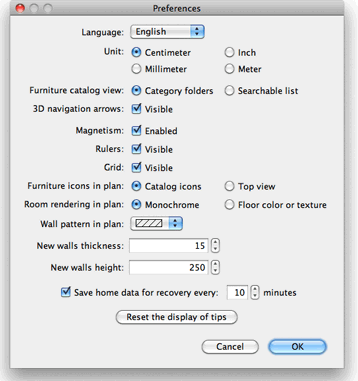
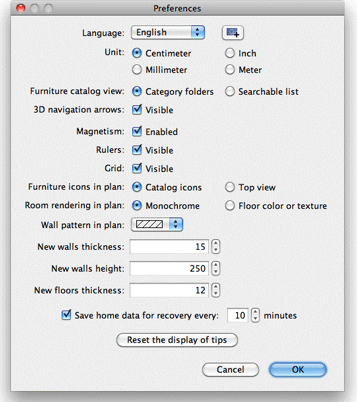
Added help for levels
git-svn-id: https://svn.code.sf.net/p/sweethome3d/code/trunk@3236 03e323e1-6c6c-46a5-9f71-c4ce5d8c6204

Changed region(s): [[0.0308, 0.0, 0.986, 0.9816], [0.6162, 0.4331, 0.9244, 0.5486], [0.0308, 0.0, 0.1541, 0.0577]]

diff --git a/SweetHome3D/src/com/eteks/sweethome3d/viewcontroller/resources/help/en/addingLevels.html b/SweetHome3D/src/com/eteks/sweethome3d/viewcontroller/resources/help/en/addingLevels.html
@@ -1,0 +1,94 @@
+<html>
+<head>
+	<meta http-equiv="content-type" content="text/html;charset=iso-8859-1">
+	<title>Adding levels</title>
+	<link href="../help.css" rel="stylesheet" media="all">
+</head>
+
+<body  bgcolor="#ffffff">
+<div id="banner">
+	<div id="helpheader">
+		<a class="bread" href="index.html">Sweet Home 3D Help</a> > <a class="bread" href="tocCreating.html">Creating
+						      homes, walls and furniture</a>
+	</div>
+</div>
+<div id="mainbox" align="left">
+<table width="100%" border="0" cellspacing="0" cellpadding="0">
+	<tr valign="bottom" height="32">
+	<td width="3" height="32">&nbsp;</td>
+	<td width="32" height="32"><img src="../images/applicationIcon32.png" alt="Sweet Home 3D Icon" height="32" width="32"></td>
+	<td width="8" height="32">&nbsp;&nbsp;</td>
+	<td valign="bottom" height="32"><font id="topic">Adding levels</font></td>
+	</tr>
+	<tr height="10">
+	<td colspan="4" height="10">&nbsp;</td>
+	</tr>
+</table>
+<table width="100%" border="0" cellspacing="0" cellpadding="3">
+	<tr>
+	<td><p>Every home is created with a default level, but Sweet Home 3D is also able to manage multiple levels, with the ability for each level to be at a positive or negative elevation. To add a new level, choose <i>Plan &gt; Add new level</i> from the menu. As soon as a home has more then one level, some tabs appear at the top of the plan view and let you select the level into which you want to add some items. At the end of the tabs list, appears also a tab with a <font size="+1"><b>+</b></font> sign that you can use to create more levels if needed.
+</p>
+	  <table border="0" align="center" cellpadding="0" cellspacing="5">
+	    <tr align="center">
+    <td><img src="../images/addingLevel.png" alt="Adding furniture" width="416" height="234"></td>
+    </tr>
+  <tr>
+    <td align="center" valign="top">New level showing in light color walls and ceilings of the lower level </td>
+    </tr>
+</table>
+      <p>To help you find your place in an upper level, walls and ceilings of the lower level are displayed with a light color in the plan view. If the edited level is the lowest level, walls and floors of the next level will be drawn in a light color. When magnetism is active, the cursor is magnetized on these  walls and rooms to let you use more easily wall or room drawing tools. If needed you may also simply copy some walls, rooms or furniture from an other level to paste them in the new level.</p>
+      <p>Each level has an elevation and other attributes that can be <a href="editingLevels.html">changed</a>, and if the walls or some furniture added to a lower level are higher than the elevation of the selected level they will appear in full color, as the surrounding walls and the staircase and the window on the right in the next figure.</p>
+      <table border="0" align="center" cellpadding="0" cellspacing="5">
+        <tr align="center">
+      <td><img src="../images/level1WithHighWalls.png" alt="Adding furniture" width="416" height="234"></td>
+    </tr>
+    <tr>
+      <td align="center" valign="top">New level showing in full color the high walls and furniture of the lower level</td>
+    </tr>
+</table>
+      <p>Adding a new level has no direct effect in the 3D view, and no floor is automatically added to separate a level from an other. It's only once you start to draw new walls, new rooms or add some furniture that you will see them appear at the elevation of the new level.</p></td>
+	</tr>
+</table>
+<div id="taskbox">
+  <table width="100%" border="0" cellspacing="0" cellpadding="7" BGCOLOR="#eeeeee">
+    <tr valign="top" BGCOLOR="#eeeeee">
+      <td bgcolor="#eeeeee" width="98%">
+        <table border="0" cellspacing="0" cellpadding="4">
+          <tr valign="top">
+            <td width="16"><p>&#149;</p></td>
+            <td><p>The  height  and the floor thickness 
+              of a new level can be set in the <a href="editingPreferences.html">preferences</a> panel. The elevation of a new level is computed by adding  the elevation of last level, its height and the  floor thickness set in preferences.</p></td>
+          </tr>
+          <tr valign="top">
+            <td><p>&#149;</p></td>
+            <td> Once a level is created you may <a href="editingLevels.html">change</a> its name, its elevation and heights by double-clicking on its tab, or by choosing <i>Plan &gt; Modify level</i> from the menu.</td>
+          </tr>
+          <tr valign="top">
+            <td><p>&#149;</p></td>
+            <td> The tabs at the top of the plan view list levels in the order of their elevation, then in the reverse order of their height.</td>
+          </tr>
+          <tr valign="top">
+            <td><p>&#149;</p></td>
+            <td> Selecting a piece of furniture in the furniture list will select automatically the level it was added to, if this piece can't be viewed in the current level.</td>
+          </tr>
+          <tr valign="top">
+            <td><p>&#149;</p></td>
+            <td><p>Each level in a home can have its own <a href="importingBackground.html">background image</a> to draw walls and rooms upon it.</td>
+          </tr>
+          <tr valign="top">
+            <td>
+              <p>&#149;</p>
+              </td>
+            <td>
+              <p>The walls and rooms of the lower level  drawn with a light color are not printed or copied in the clipboard. They are here to help you find your place and  draw faster the current level.</p>
+              </td>
+          </tr>
+        </table>
+       </td>
+    </tr>
+  </table>
+</div>
+</div>
+</body>
+
+</html>

diff --git a/SweetHome3D/src/com/eteks/sweethome3d/viewcontroller/resources/help/en/editingLevels.html b/SweetHome3D/src/com/eteks/sweethome3d/viewcontroller/resources/help/en/editingLevels.html
@@ -1,0 +1,60 @@
+<html>
+<head>
+	<meta http-equiv="content-type" content="text/html;charset=iso-8859-1">
+	<title>Editing levels</title>
+	<link href="../help.css" rel="stylesheet" media="all">
+</head>
+
+<body  bgcolor="#ffffff">
+<div id="banner">
+	<div id="helpheader">
+		<a class="bread" href="index.html">Sweet Home 3D Help</a> > <a class="bread" href="tocEditing.html">Editing
+					      preferences, plan and 3D view</a>
+	</div>
+</div>
+<div id="mainbox" align="left">
+<table width="100%" border="0" cellspacing="0" cellpadding="0">
+	<tr valign="bottom" height="32">
+	<td width="3" height="32">&nbsp;</td>
+	<td width="32" height="32"><img src="../images/applicationIcon32.png" alt="Sweet Home 3D Icon" height="32" width="32"></td>
+	<td width="8" height="32">&nbsp;&nbsp;</td>
+	<td valign="bottom" height="32"><font id="topic">Editing levels</font></td>
+	</tr>
+	<tr height="10">
+	<td colspan="4" height="10">&nbsp;</td>
+	</tr>
+</table>
+<table width="100%" border="0" cellspacing="0" cellpadding="3">
+  <tr>
+    <td><p>You may edit the name, the elevation and the heights of a level by double-clicking on its tab, or by choosing <i>Plan &gt; Modify level</i> from the menu.<br>
+      The modification pane of a level lets you edit its attributes but also shows a table 
+      describing all the levels of a home where the selected line matches the currently edited level.</p>
+<p align="center"><img src="images/editingLevels.png" alt="Modify furniture" width="294" height="321"></p>
+	    <p>The thickness of the floor is used to compute the vertical border around a floor in the 3D view. This surface will be visible only around holes and at the border of a mezzanine.<br>
+	      The elevation 
+	    of a level can be positive or negative. In the later case, the ground will be automatically dug in the 3D view each time a piece of furniture, a room or a closed set of walls is added to the underground level. This can be used to place a swimming pool in the ground or to create a basement with one or more levels.</p></td>
+	</tr>
+</table>
+<div id="taskbox">
+  <table width="100%" border="0" cellspacing="0" cellpadding="7" BGCOLOR="#eeeeee">
+    <tr valign="top" BGCOLOR="#eeeeee">
+      <td bgcolor="#eeeeee" width="98%">
+        <table border="0" cellspacing="0" cellpadding="4">
+          <tr valign="top">
+            <td><p>&#149;</p></td>
+            <td> It's not mandatory to enter values that will have the effect of superimposing exactly levels on top of each other. 
+              You may use the level feature to manage intermediate levels, raised floors and false ceilings. You can also use levels at the same elevation as layers to isolate some items like <a href="drawingDimensions.html">dimension lines</a> or <a href="addingTexts.html">texts</a>.</td>
+          </tr>
+            <tr valign="top"> 
+              <td width="16"> <p>&#149;</p></td>
+              <td> <p>The tabs at the top of the plan view display the name of the levels in the order of their elevation, then in the reverse order of their height. Changing the elevation and/or the height of a level will automatically update the order of the tabs.</td>
+            </tr>
+          </table>
+      </td>
+    </tr>
+  </table>
+</div>
+</div>
+</body>
+
+</html>

diff --git a/SweetHome3D/src/com/eteks/sweethome3d/viewcontroller/resources/help/en/editing3DView.html b/SweetHome3D/src/com/eteks/sweethome3d/viewcontroller/resources/help/en/editing3DView.html
@@ -128,7 +128,7 @@
         <p align="center"><img src="images/editing3DView.png" width="347" height="214"></p>
         <p>In the 3D view pane, you may change&nbsp;the virtual visitor field of view, its height, the color or the texture
           of the ground and
-          the sky, the light brightness and walls transparency.<br>
+          the sky, the light brightness and walls (and floors) transparency.<br>
         The elevation of the virtual visitor point of view is equal to 13/14 of its height to respect adult human proportions.</p>
       </td>
   </tr>
@@ -137,7 +137,7 @@
 <table width="100%" border="0" cellspacing="0" cellpadding="7" BGCOLOR="#eeeeee">
 	<tr valign="top" BGCOLOR="#eeeeee">
 	<td bgcolor="#eeeeee" width="98%">
-	<table border="0" cellspacing="0" cellpadding="4"><tr valign="top"><td width="16"><p>&#149;</p></td><td><p>Press the <i>shift</i>	        key to slow down the effect of mouse moves and mouse wheel in the 3D view.</p></td></tr>
+	<table border="0" cellspacing="0" cellpadding="4"><tr valign="top"><td width="16"><p>&#149;</p></td><td><p>Press the <i>shift</i>	        key to increase the effect of mouse moves and mouse wheel in the 3D view.</p></td></tr>
 	  <tr valign="top">
         <td><p>&#149;</p>
         </td>
@@ -148,7 +148,7 @@
 	    <td width="16"><p>&#149;</p>
 	      </td>
 	    <td><p>The moves in the 3D view aren't considered as undoable
-	        operations, but the current position in 3D view is <a href="savingHome.html">saved</a> in a Sweet Home 3D file
+	        operations, but the current position in the 3D view is <a href="savingHome.html">saved</a> in a Sweet Home 3D file
 	        when you choose <i>File &gt; Save</i> or <i>File &gt; Save
 	        as...</i>.</p>
 	      </td>
@@ -169,12 +169,15 @@
         </td>
 	    </tr>
 	  <tr valign="top">
+	    <td><p>&#149;</p></td>
+	    <td><p>Nothing prevents the virtual visitor from being inside a wall or very far from home. If you don't know where
+	      the virtual visitor is located, roll the mouse wheel with the mouse pointer in 3D view, it will automatically
+	      select and show the virtual visitor in the home plan.</p></td>
+	    </tr>
+	  <tr valign="top">
 	    <td><p>&#149;</p>
 	      </td>
-	    <td><p>Nothing prevents the virtual visitor from being inside a wall or very far from home. If you don't know where
-	        the virtual visitor is located, roll the mouse wheel with the mouse pointer in 3D view, it will automatically
-	        select and show the virtual visitor in the home plan.</p>
-	      </td>
+	    <td><p>If you want to always see all the levels in the 3D view whatever the selected level is, choose <i>3D view &gt; Display all levels</i> menu item. To display the selected level and all the other lower levels, choose <i>3D view &gt; Display selected level</i> menu item.</p></td>
 	    </tr>
 	</table>
 	

diff --git a/SweetHome3D/src/com/eteks/sweethome3d/viewcontroller/resources/help/en/editingPreferences.html b/SweetHome3D/src/com/eteks/sweethome3d/viewcontroller/resources/help/en/editingPreferences.html
@@ -28,15 +28,16 @@
 	<tr>
 	<td><p>To edit Sweet Home 3D preferences, choose <i>Sweet Home 3D &gt; Preferences...</i> under Mac OS X or <i>File &gt; Preferences...</i> under
 	    other systems.</p>
-	    <p align="center"><img src="images/editingPreferences.png" width="358" height="381"></p>
+	    <p align="center"><img src="images/editingPreferences.png" width="357" height="402"></p>
 	  <p>In the preferences pane, you can choose the <i>Language</i> used in Sweet Home 3D user interface and the <i>Unit</i> used
-	    to draw  the rulers and grid of the home plan, and to display lengths and areas.</p>
+	    to draw  the rulers and grid of the home plan, and to display lengths and areas.<br>
+	    The button beside the <i>Language</i> drop down list lets you also import some additional languages library files with a SH3L extension. </p>
 	    <p> The <i>Category folders</i> and the <i>Searchable list</i> radio buttons 
           let you choose how the furniture catalog should be displayed in each 
           <a href="ui.html">Sweet Home 3D window</a>.<br>
           The <i>3D navigation arrows</i> check box allows to display arrow buttons 
           that will help you to <a href="editing3DView.html">navigate in the 3D 
-          view</a>.</p>
+        view</a>.</p>
         <p> The <i>Magnetism</i> check box enables or disables the magnetism used 
           in the home plan during <a href="drawingWalls.html">walls drawing</a> 
           and <a href="editingFurniture.html">furniture placing</a>.<br>
@@ -55,8 +56,8 @@
         <p>	      The <i>New walls thickness</i> value sets the thickness of all the walls that will be created once the preferences
 	        pane will be closed.<br>
           The <i>New  walls height</i> value 
-	        sets the height of all the walls that will be created once the preferences pane will
-        be closed. </p>	  
+	        sets the height of the new walls and of the new levels. <br>
+        The <i>New floors thickness</i> sets the thickness of the floors of new levels. </p>	  
         <p>The value of the field associated to the <i>Save home data for recovery</i> 
           check box sets the delay in minutes between two save operations of the 
           opened homes. These homes are automatically saved in private files, 

diff --git a/SweetHome3D/src/com/eteks/sweethome3d/viewcontroller/resources/help/en/creatingHome.html b/SweetHome3D/src/com/eteks/sweethome3d/viewcontroller/resources/help/en/creatingHome.html
@@ -31,9 +31,9 @@
           Once a home is created, you may <a href="drawingWalls.html">draw its 
           walls</a>, <a href="addingFurniture.html">add doors, windows and furniture</a> 
           to it, <a href="drawingRooms.html">define its rooms</a> from the drawn 
-          walls, update its <a href="editingCompass.html">geographic location</a>, 
+          walls, create some <a href="addingLevels.html">additional levels</a>, update its <a href="editingCompass.html">geographic location</a>, 
           <a href="drawingDimensions.html">draw some dimensions</a> and <a href="addingTexts.html">add 
-          texts</a> on its plan. As the 3D view is always synchronized with the 
+          texts</a> on its plan. As the 3D view is continously updated from the 
           modifications done in the home plan, don't hesitate to <a href="editing3DView.html">navigate 
           in the 3D view</a> of a home at any time to see it from the best point 
           of view.</p>
@@ -46,7 +46,7 @@
 	<tr valign="top" BGCOLOR="#eeeeee">
 	<td bgcolor="#eeeeee" width="98%">
 	<table border="0" cellspacing="0" cellpadding="4"><tr valign="top"><td width="16"><p>&#149;</p></td><td>
-	<p>The default height of the walls in a new home is set by the value of <i>New home walls height</i> in the <a href="editingPreferences.html">preferences</a> pane.
+	<p>The default height of the walls in a new home is set by the value of <i>New  walls height</i> in the <a href="editingPreferences.html">preferences</a> pane.
 	  After its creation, any wall may have a different height by <a href="editingWalls.html">editing it</a>.</p>
 	</td></tr>
 	<tr valign="top"><td width="16"><p>&#149;</p></td><td>

diff --git a/SweetHome3D/src/com/eteks/sweethome3d/viewcontroller/resources/help/en/editingFurniture.html b/SweetHome3D/src/com/eteks/sweethome3d/viewcontroller/resources/help/en/editingFurniture.html
@@ -28,7 +28,7 @@
   <tr>
     <td><p>You may edit the location, the size, the elevation and the angle of 
           home furniture, either with the mouse or with the <i>Furniture &gt; 
-          Modify...</i> menu.<br>
+          Modify...</i> menu item.<br>
           To edit pieces of furniture with the mouse, select them in the home 
           plan or furniture list first. To select&nbsp;one piece in the plan, 
           click on it. To select multiple pieces in the plan, draw a selection 
@@ -72,7 +72,7 @@
                       <td nowrap><p>2.</p>
                       </td>
                       <td><p>The elevation indicator shows the corner you can drag  to change the elevation of the
-                          selected piece.</p>
+                          selected piece (in relation to the elevation of the level it was added to if the home contains m<a href="addingLevels.html">ultiple levels</a>).</p>
                       </td>
                     </tr>
                     <tr valign="top">
@@ -170,8 +170,8 @@
               <td> <p>If a piece of furniture is dropped on an other one, it will 
                   be elevated to appear on the top of the latter, when its selection 
                   rectangle is included in the one of the latter and its elevation 
-                  is equal to zero (at floor level). This automatic behavior is 
-                  disabled when magnetism is disabled. </td>
+                  is equal to zero (on the floor of the edited level). This automatic behavior is 
+              disabled when magnetism is disabled. </td>
             </tr>
             <tr valign="top"> 
               <td> <p>&#149;</p></td>

diff --git a/SweetHome3D/src/com/eteks/sweethome3d/viewcontroller/resources/help/en/importingFurniture.html b/SweetHome3D/src/com/eteks/sweethome3d/viewcontroller/resources/help/en/importingFurniture.html
@@ -120,6 +120,10 @@
                 on Linux.</td>
           </tr>
           <tr valign="top">
+            <td><p>&#149;</p></td>
+            <td><p>If you need to rotate a 3D model by steps of 1&deg; instead of 90&deg;, maintain the <i>shift</i> key pressed while clicking on the arrow buttons at the second step.</td>
+          </tr>
+          <tr valign="top">
             <td>
               <p>&#149;</p>
             </td>
@@ -164,12 +168,9 @@
               catalog    (i.e. import, modifications and deletion) can be undone. </td>
           </tr>
           <tr valign="top">
-            <td>
-              <p>&#149;</p>
-            </td>
-            <td>
-              <p>The characteristics of imported catalog furniture are automatically stored in preferences and their 3D model
-                and icon files are stored in folders specific to Sweet Home 3D.</td>
+            <td><p>&#149;</p></td>
+            <td><p>The characteristics of imported catalog furniture are automatically stored in preferences and their 3D model
+              and icon files are stored in folders specific to Sweet Home 3D.</td>
           </tr>
         </table>
       </td>

diff --git a/SweetHome3D/src/com/eteks/sweethome3d/viewcontroller/resources/help/en/importingBackground.html b/SweetHome3D/src/com/eteks/sweethome3d/viewcontroller/resources/help/en/importingBackground.html
@@ -120,12 +120,16 @@
               <p>Avoid importing a too large file.</td>
           </tr>
           <tr valign="top">
+            <td><p>&#149;</p></td>
+            <td><p>When you import a scanned image of your home plan, ensure  the image is correctly rotated. A rotation
+              of only one degre make you lose the alignment between image borders and some walls.</td>
+          </tr>
+          <tr valign="top">
             <td>
               <p>&#149;</p>
             </td>
             <td>
-              <p>When you import a scanned image of your home plan, ensure  the image is correctly rotated. A rotation
-                of only one degre make you lose the alignment between image borders and some walls.</td>
+              <p>Each <a href="addingLevels.html">level</a> in a home can have its own background image.</td>
           </tr>
           <tr valign="top">
             <td>

diff --git a/SweetHome3D/src/com/eteks/sweethome3d/viewcontroller/resources/help/en/ui.html b/SweetHome3D/src/com/eteks/sweethome3d/viewcontroller/resources/help/en/ui.html
@@ -75,7 +75,7 @@ window edits the interior design of a home and is divided in four resizable
                             your
                             <a href="editingFurniture.html">furniture</a>                        with
                             the
-                            mouse or the keyboard arrows.</p>
+                            mouse or the keyboard arrows. When a home has more than one <a href="addingLevels.html">level</a>, the name of each level is displayed in tabs at the top of the plan.</p>
                       </td>
                     </tr>
                     <tr valign="top">

diff --git a/SweetHome3D/src/com/eteks/sweethome3d/viewcontroller/resources/help/en/tocEditing.html b/SweetHome3D/src/com/eteks/sweethome3d/viewcontroller/resources/help/en/tocEditing.html
@@ -44,6 +44,7 @@
 						<p><A HREF="editingFurniture.html">Editing furniture</A></p>
 						<p><A HREF="editingRooms.html">Editing rooms</A></p>
       					<p><A HREF="editingDimensions.html">Editing dimensions</A></p>
+      					<p><A HREF="editingLevels.html">Editing levels</A></p>
 						<p><A HREF="editing3DView.html">Editing 3D view</A></p> 
      				    
         				<p><A HREF="editingCompass.html">Editing compass and geographic location</A> </p>

diff --git a/SweetHome3D/src/com/eteks/sweethome3d/viewcontroller/resources/help/en/tocCreating.html b/SweetHome3D/src/com/eteks/sweethome3d/viewcontroller/resources/help/en/tocCreating.html
@@ -44,6 +44,7 @@
 						<p><A HREF="drawingRooms.html">Drawing rooms</A></p>
 						<p><a href="drawingDimensions.html">Drawing dimensions</a></p>
 						<p><a href="addingTexts.html">Adding texts</a></p>
+						<p><a href="addingLevels.html">Adding levels</a></p>
 						<p><A HREF="savingHome.html">Saving and opening a home</A></p>
 						<p><A HREF="printingHome.html">Printing a home</A></p></td>
 				</tr>
